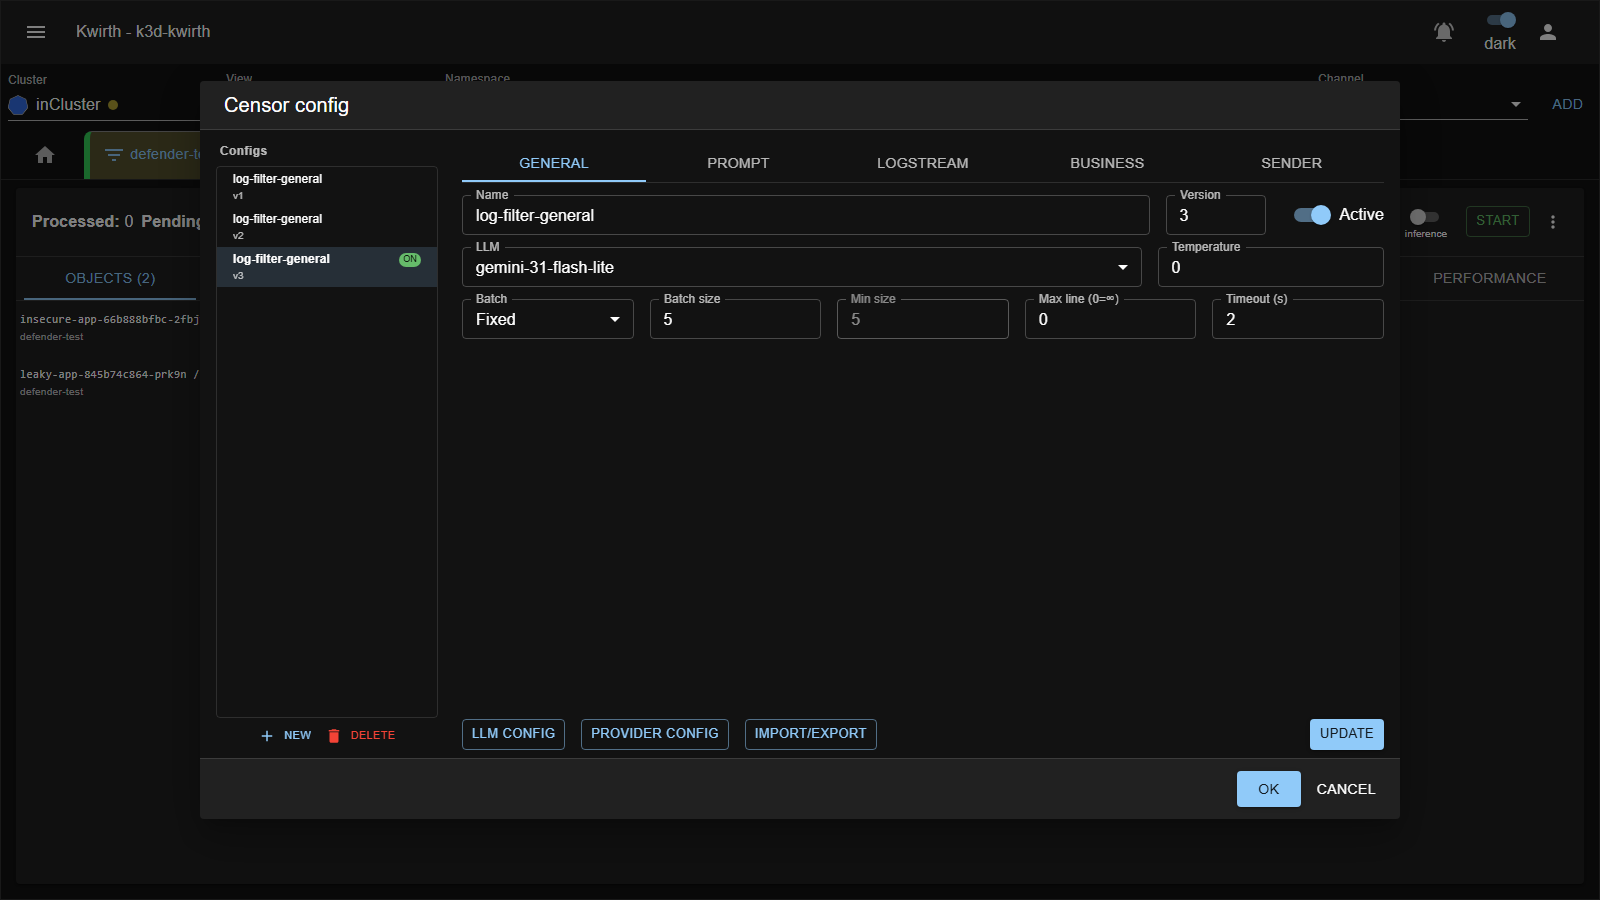
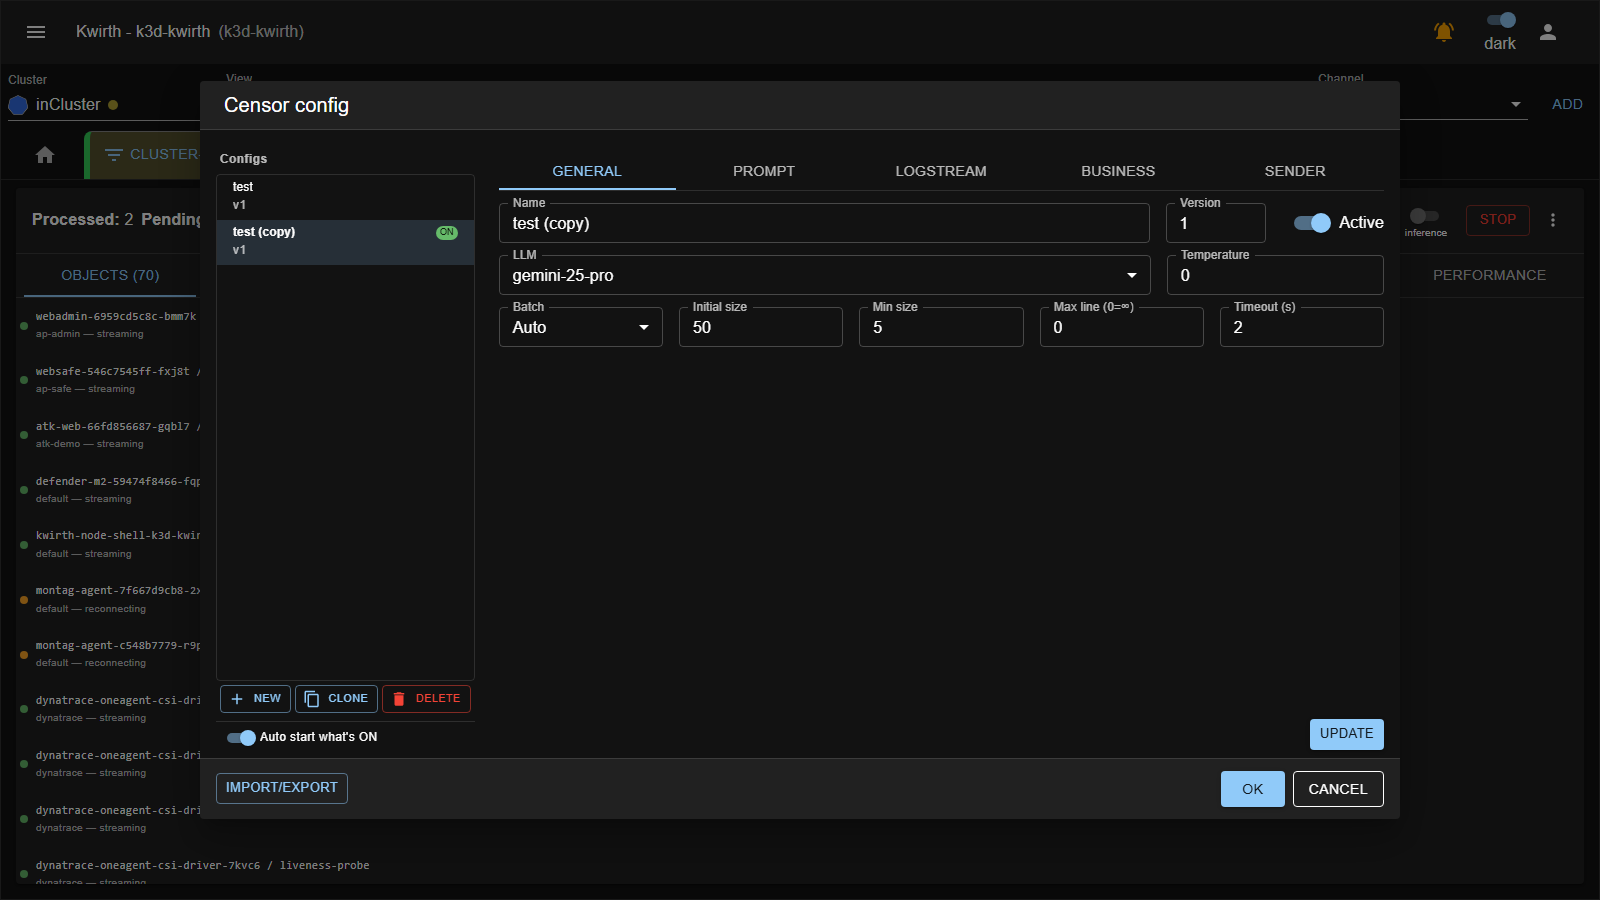
chore(censor): CL9 — e2e propio, metricas, backlog y bump a 0.2.48
Cierre del bloque de censor (ciclo de vida de assets/streams + autostart del analisis, ya
commiteados). Lo que faltaba de la checklist:

- e2e CREADO desde cero (censor no tenia): harness aislado con Playwright pinneado a 1.61.1 (la
  version cuyo navegador ya esta instalado), creds en e2e/.creds.json (gitignoreado), 2 specs / 5
  casos verdes contra el dev + un zz-capture capture-only
- data-testid estables en el front (censor-panel, censor-menu, censor-menu-config,
  censor-analyze-toggle), como ya tenia montag
- el e2e del autostart comprueba el CONTRATO DE UI y cierra con Cancel: no persiste ni arranca
  analisis, para no gastar LLM real ni tocar la config del usuario. El comportamiento lo cubre el
  harness (24 tests)
- captura de la guia refrescada (channel-censor-config.png): mi switch la invalidaba, y de paso la
  anterior ya estaba desfasada porque aun mostraba los botones LLM CONFIG / PROVIDER CONFIG que se
  movieron al submenu AI
- docs/plan/test-metrics-history.md creado con la primera fila (24 harness, 58.31/68.28/69.18, 2/5 e2e)
- docs/plan/BACKLOG.md creado: estado de las dos features y lo que queda (documentacion propia del
  plugin, cobertura del front, e2e de comportamiento del autostart)
- COVERAGE=1 wired en el runner de tests
- bump 0.2.47 -> 0.2.48 + manifest. Ojo: 0.2.47 se taggeo sobre un commit anterior y nunca llego a
  npm (el registry servia 0.2.46 y el manifest apuntaba ahi), asi que 0.2.48 es la primera version
  publicada con las dos features.

diff --git a/plugins/censor/e2e/tests/helpers.ts b/plugins/censor/e2e/tests/helpers.ts
@@ -1,0 +1,76 @@
+import { Page, Locator, expect } from '@playwright/test'
+
+export const USER = process.env.CENSOR_E2E_USER ?? 'admin'
+export const PASS = process.env.CENSOR_E2E_PASS ?? ''
+export const CLUSTER = process.env.CENSOR_E2E_CLUSTER ?? 'inCluster'
+
+/** Login with the given credentials. Waits until the SPA actually renders — either the login form or,
+ *  if the session persisted, the resource selector — then logs in only if the form is present. */
+export async function login(page: Page, user = USER, pass = PASS): Promise<void> {
+    await page.goto('/')
+    const userField = page.getByLabel('User')
+    const combo = page.getByRole('combobox').first()
+    await Promise.race([
+        userField.waitFor({ state: 'visible', timeout: 30000 }).catch(() => { }),
+        combo.waitFor({ state: 'visible', timeout: 30000 }).catch(() => { })
+    ])
+    if (await userField.isVisible().catch(() => false)) {
+        await userField.fill(user)
+        await page.getByLabel('Password').fill(pass)
+        await page.getByRole('button', { name: 'OK' }).click()
+        await page.waitForTimeout(2500)
+    }
+}
+
+/**
+ * Drives the resource selector up to the channel combobox: Cluster → View=cluster.
+ * Leaves the channel combobox OPEN so the caller can assert/select the 'censor' option.
+ */
+export async function openChannelPicker(page: Page): Promise<Locator> {
+    await page.getByRole('combobox').first().click()
+    await page.getByRole('option', { name: CLUSTER }).click()
+    await page.waitForTimeout(800)
+    await page.getByRole('combobox').nth(1).click()
+    await page.getByRole('option', { name: 'cluster', exact: true }).click()
+    await page.waitForTimeout(800)
+    const combos = page.getByRole('combobox')
+    await combos.nth(await combos.count() - 1).click()
+    return page.getByRole('option', { name: 'censor', exact: true })
+}
+
+/** Starts the currently selected channel tab via its menu (gear icon → Start). */
+export async function startChannel(page: Page): Promise<void> {
+    await page.locator('[data-testid="SettingsIcon"]').first().click({ force: true })
+    await page.getByText('Start', { exact: true }).click()
+    await page.waitForTimeout(1500)
+}
+
+/**
+ * Full open + start: login → Cluster → View=cluster → Channel=censor → ADD → Start.
+ * Starting the channel opens the Censor setup dialog (line limits); confirming it with its own
+ * "Start" button mounts the panel. Leaves the Censor panel running WITHOUT analyzing: opening the
+ * channel only inventories objects, so no log stream and no LLM call happens here.
+ */
+export async function openCensor(page: Page, user = USER, pass = PASS): Promise<void> {
+    await login(page, user, pass)
+    const censorOption = await openChannelPicker(page)
+    await censorOption.click()
+    await page.getByRole('button', { name: 'ADD' }).click()
+    await page.waitForTimeout(1500)
+    // The setup dialog may open on ADD or need the channel menu → Start to appear.
+    const setupDialog = page.getByRole('dialog', { name: 'Censor' })
+    if (!(await setupDialog.isVisible().catch(() => false))) {
+        await startChannel(page)
+    }
+    await setupDialog.getByRole('button', { name: 'Start', exact: true }).click()
+    await expect(page.getByTestId('censor-panel')).toBeVisible({ timeout: 20_000 })
+}
+
+/** Opens ⋮ → Config and returns the config dialog locator. */
+export async function openConfigDialog(page: Page): Promise<Locator> {
+    await page.getByTestId('censor-menu').click()
+    await page.getByTestId('censor-menu-config').click()
+    const dialog = page.getByRole('dialog').filter({ hasText: 'Censor config' })
+    await expect(dialog).toBeVisible({ timeout: 15_000 })
+    return dialog
+}

diff --git a/plugins/censor/src/front/CensorTabContent.tsx b/plugins/censor/src/front/CensorTabContent.tsx
@@ -224,7 +224,7 @@ const CensorTabContent: React.FC<IContentProps> = (props: IContentProps) => {
     const panelHeight = `calc(100vh - ${contentTop}px - 16px)`
     return <>
         {data.started &&
-        <Card sx={{ display: 'flex', flexDirection: 'column', flex: 1, width: '98%', alignSelf: 'center', mt: 1, minHeight: 0 }}>
+        <Card data-testid='censor-panel' sx={{ display: 'flex', flexDirection: 'column', flex: 1, width: '98%', alignSelf: 'center', mt: 1, minHeight: 0 }}>
             <CardHeader title={
                 <Stack direction='row' alignItems='center' spacing={1}>
                     <Typography><b>Processed:</b> {rd?.processedCount ?? 0}</Typography>
@@ -265,15 +265,15 @@ const CensorTabContent: React.FC<IContentProps> = (props: IContentProps) => {
                         if (!isAnalyzing) { data.startTime = Date.now(); data.stopTime = undefined }
                         else data.stopTime = Date.now()
                         sendCommand(isAnalyzing ? ECensorCommand.ANALYZESTOP : ECensorCommand.ANALYZESTART)
-                    }} color={(rd?.analyzing ?? false) ? 'error' : 'success'} variant='outlined' size='small'
+                    }} color={(rd?.analyzing ?? false) ? 'error' : 'success'} variant='outlined' size='small' data-testid='censor-analyze-toggle'
                         disabled={!data.ephemeralSessionName || (!(rd?.analyzing ?? false) && !data.configs.filter(c => c.active).some(c => c.logstreamEnabled || (c.businessSources?.length ?? 0) > 0))}>
                         {(rd?.analyzing ?? false) ? 'Stop' : 'Start'}
                     </Button>
-                    <IconButton size='small' onClick={(e) => { setAiGroupOpen(false); setMenuAnchor(e.currentTarget) }}>
+                    <IconButton size='small' data-testid='censor-menu' onClick={(e) => { setAiGroupOpen(false); setMenuAnchor(e.currentTarget) }}>
                         <MoreVertIcon fontSize='small' />
                     </IconButton>
                     <Menu anchorEl={menuAnchor} open={Boolean(menuAnchor)} onClose={() => setMenuAnchor(null)}>
-                        <MenuItem onClick={() => { setMenuAnchor(null); openConfig() }} disabled={!data.ephemeralSessionName}><ListItemIcon><Settings fontSize='small' /></ListItemIcon>Config</MenuItem>
+                        <MenuItem data-testid='censor-menu-config' onClick={() => { setMenuAnchor(null); openConfig() }} disabled={!data.ephemeralSessionName}><ListItemIcon><Settings fontSize='small' /></ListItemIcon>Config</MenuItem>
                         <Divider />
                         <MenuGroup label='AI' icon={<SmartToy fontSize='small' />} open={aiGroupOpen} onToggle={() => setAiGroupOpen(o => !o)}>
                             <MenuItem onClick={() => { setMenuAnchor(null); setShowConfigProvider(true) }}><ListItemIcon><Key fontSize='small' /></ListItemIcon>AI providers</MenuItem>

diff --git a/plugins/censor/e2e/tests/02-autostart.spec.ts b/plugins/censor/e2e/tests/02-autostart.spec.ts
@@ -1,0 +1,48 @@
+import { test, expect } from '@playwright/test'
+import { openCensor, openConfigDialog } from './helpers'
+
+// Autostart del ANALISIS: un unico switch para todo el canal, bajo la lista de configs.
+//
+// NO DESTRUCTIVO y sin gasto de LLM: el spec comprueba el contrato de UI (que el switch existe, que
+// es unico, que esta fuera del editor de la config seleccionada y que se puede conmutar) y SIEMPRE
+// cierra con Cancel, asi que no persiste nada ni arranca un analisis contra el LLM real del usuario.
+// El comportamiento (que el flag arranca el analisis al arrancar el channel) esta cubierto de forma
+// determinista por el harness: tests/back/CensorAutostart.test.ts.
+test.describe('Censor — autostart del analisis', () => {
+
+    test('el switch de autostart existe, es unico y vive fuera del editor de config', async ({ page }) => {
+        await openCensor(page)
+        const dialog = await openConfigDialog(page)
+
+        const autoStart = dialog.getByText("Auto start what's ON")
+        await expect(autoStart).toHaveCount(1)
+        await expect(autoStart).toBeVisible()
+
+        // Esta en el panel de la lista (aplica a todas las configs), no en la pestana General del editor
+        await expect(dialog.getByRole('tab', { name: 'General' })).toBeVisible()
+        await dialog.getByRole('tab', { name: 'General' }).click()
+        await expect(dialog.getByText('Active')).toBeVisible()
+        await expect(autoStart).toBeVisible()
+
+        await dialog.getByRole('button', { name: 'Cancel' }).click()
+        await expect(dialog).toBeHidden()
+    })
+
+    test('el switch se conmuta y Cancel no persiste nada', async ({ page }) => {
+        await openCensor(page)
+        const dialog = await openConfigDialog(page)
+
+        const toggle = dialog.locator('input[type="checkbox"]').last()
+        const before = await toggle.isChecked()
+        await toggle.click({ force: true })
+        expect(await toggle.isChecked()).toBe(!before)
+
+        await dialog.getByRole('button', { name: 'Cancel' }).click()
+        await expect(dialog).toBeHidden()
+
+        // Reabrir: al no haber pulsado OK, el valor sigue siendo el original
+        const reopened = await openConfigDialog(page)
+        expect(await reopened.locator('input[type="checkbox"]').last().isChecked()).toBe(before)
+        await reopened.getByRole('button', { name: 'Cancel' }).click()
+    })
+})

diff --git a/plugins/censor/e2e/playwright.config.ts b/plugins/censor/e2e/playwright.config.ts
@@ -1,0 +1,35 @@
+import { defineConfig } from '@playwright/test'
+import { readFileSync } from 'fs'
+import { join } from 'path'
+
+// Loads URL/credentials from a LOCAL file (.creds.json, gitignored) so they are neither passed on the
+// command line (keeps the command stable/allowlistable) nor committed. Falls back to env/defaults.
+try {
+    const c = JSON.parse(readFileSync(join(__dirname, '.creds.json'), 'utf-8'))
+    // Only assign DEFINED values: `process.env.X = undefined` coerces to the string "undefined",
+    // which would defeat the `?? 'inCluster'` fallback in helpers when a key is missing from creds.
+    const put = (k: string, v: unknown): void => { if (v !== undefined && v !== null && process.env[k] === undefined) process.env[k] = String(v) }
+    put('CENSOR_E2E_URL', c.url)
+    put('CENSOR_E2E_USER', c.user)
+    put('CENSOR_E2E_PASS', c.pass)
+    put('CENSOR_E2E_CLUSTER', c.cluster)
+}
+catch { /* no file → env/defaults */ }
+
+// ISOLATED e2e for the Censor plugin. Drives the already-running app over HTTP; never imported by the build.
+export default defineConfig({
+    testDir: './tests',
+    timeout: 90_000,
+    fullyParallel: false,
+    workers: 1,
+    retries: 1,   // dev en vivo: el login puede fallar de forma transitoria ("cannot access backend")
+    reporter: [['list']],
+    use: {
+        baseURL: process.env.CENSOR_E2E_URL ?? 'http://localhost:3000',
+        headless: true,
+        screenshot: 'on',
+        trace: 'retain-on-failure',
+        ignoreHTTPSErrors: true,
+        actionTimeout: 15_000
+    }
+})

diff --git a/plugins/censor/e2e/tests/zz-capture.spec.ts b/plugins/censor/e2e/tests/zz-capture.spec.ts
@@ -1,0 +1,26 @@
+import { test } from '@playwright/test'
+import { openCensor, openConfigDialog } from './helpers'
+
+// Guide screenshots (dark theme). NOT part of the regression suite — run explicitly:
+//   CENSOR_CAPTURE=1 npx playwright test tests/zz-capture.spec.ts
+// Censor's guide lives in the CORE docs tree, so the PNGs go to docs/0.5.287/_media/guide.
+// Only the shots this plugin's UI changes invalidate; data-heavy tabs (Regex/Logstream/Performance
+// with real numbers) need a live run with an LLM and noisy logs.
+const MEDIA = '../../../docs/0.5.287/_media/guide'
+
+test.skip(!process.env.CENSOR_CAPTURE, 'capture-only (set CENSOR_CAPTURE=1)')
+
+// El trace/video de Playwright con la SPA y su WebSocket abierto cuelga el teardown; se desactivan
+test.use({ trace: 'off', screenshot: 'off', video: 'off' })
+
+test('capture: config dialog (with the autostart switch)', async ({ page }) => {
+    // Tema oscuro y encuadre a pantalla completa, como el resto de capturas de la guía
+    await page.addInitScript(() => localStorage.setItem('kwirth.mode', 'dark'))
+    await page.setViewportSize({ width: 1600, height: 900 })
+    await openCensor(page)
+    const dialog = await openConfigDialog(page)
+    await page.waitForTimeout(800)   // margen para la animación del diálogo
+    await page.screenshot({ path: `${MEDIA}/channel-censor-config.png` })
+    await dialog.getByRole('button', { name: 'Cancel' }).click()
+    await page.goto('about:blank')   // cierra el WebSocket antes del teardown
+})

diff --git a/plugins/censor/e2e/tests/01-channel.spec.ts b/plugins/censor/e2e/tests/01-channel.spec.ts
@@ -1,0 +1,29 @@
+import { test, expect } from '@playwright/test'
+import { login, openChannelPicker, openCensor } from './helpers'
+
+// Baseline: censor is a cluster channel. On the k8s-mode home it must be offered in the selector
+// and, once added + started, render its panel with the Objects/Regex/... tabs. These are the
+// invariants later work must not break.
+test.describe('Censor — channel baseline', () => {
+
+    test('censor is offered as a cluster channel', async ({ page }) => {
+        await login(page)
+        const censorOption = await openChannelPicker(page)
+        await expect(censorOption).toBeVisible()
+    })
+
+    test('starting the channel shows the panel and its tabs', async ({ page }) => {
+        await openCensor(page)
+        await expect(page.getByTestId('censor-panel')).toBeVisible()
+        await expect(page.getByTestId('censor-menu')).toBeVisible()
+        await expect(page.getByRole('tab', { name: /Objects/ })).toBeVisible()
+        await expect(page.getByRole('tab', { name: /Regex/ })).toBeVisible()
+    })
+
+    test('starting the channel does NOT start the analysis by itself', async ({ page }) => {
+        await openCensor(page)
+        // Los dos arranques son distintos: el del channel (este) deja el analisis parado, asi que el
+        // boton propio de censor sigue ofreciendo Start (y no Stop)
+        await expect(page.getByTestId('censor-analyze-toggle')).toHaveText('Start')
+    })
+})

diff --git a/plugins/censor/docs/plan/BACKLOG.md b/plugins/censor/docs/plan/BACKLOG.md
@@ -1,0 +1,32 @@
+# Backlog — censor
+
+Pendientes vivos del plugin. La **guía de usuario** de censor no vive aquí: está en la documentación del
+core, en `docs/0.5.287/guide/extensions/plugins/censor.md` (censor es público y se publica con el core).
+
+## Ciclo de vida de assets y streams — ✅ HECHO (0.2.48)
+- Inventario (containers que casan con las configs activas) **separado** del stream de logs: el stream solo
+  se abre mientras algún runner que cubre el asset está analizando.
+- Un cierre prematuro del stream (el cliente de k8s corta `follow` a menudo) **reconecta con backoff**
+  (1s…30s, 20 intentos) en vez de borrar el asset; se aborta la petición al api server al parar.
+- Se pide solo lo nuevo (`sinceSeconds`), nunca `tailLines`: el tail metía una línea histórica de **cada**
+  container en el primer lote del LLM. Una reconexión recupera la ventana perdida, acotada a 300 s.
+- Estado por asset (`idle`/`streaming`/`reconnecting`/`failed`) visible en la pestaña **Objects**.
+
+## Autostart del análisis — ✅ HECHO (0.2.48)
+- Un **único** switch para todo el canal (**Auto start what's ON**, bajo la lista de configs), guardado en
+  su propia clave `censor-autostart`: al arrancar el channel se arranca el análisis de **todas** las configs
+  ON, igual que pulsar Start. No viaja en el export/import (es preferencia de la instalación).
+- No dispara si ninguna config ON tiene fuente configurada, la misma guarda que deshabilita el botón Start.
+
+## Documentación propia del plugin
+- Censor **no** tiene bundle de documentación propio (`docs/guide` + `censor.tgz`) como excubitor, montag,
+  iter o pinocchio: su guía está en el árbol de docs del core. Si se quisiera publicar aparte (y entrar en
+  la sección `docs` de `kwirth-dev.json` y del manifest), hay que decidir antes si la guía **se mueve** del
+  core o **se duplica** — duplicar significa mantener dos copias.
+
+## Testing
+- **Cobertura del front**: los `.tsx` no están medidos numéricamente; el e2e cubre el panel y el diálogo de
+  config, no las pestañas con datos (Regex/Logstream/Performance necesitan un run vivo con LLM y ruido).
+- **e2e del autostart de comportamiento**: hoy el e2e comprueba el contrato de UI y cancela, para no gastar
+  LLM real. Si algún día hay un LLM de mentira en el dev, se puede cerrar el ciclo completo (flag ON →
+  rearrancar el channel → asertar que el botón pasa a **Stop**).

diff --git a/plugins/censor/docs/plan/test-metrics-history.md b/plugins/censor/docs/plan/test-metrics-history.md
@@ -1,0 +1,16 @@
+# Censor — histórico de métricas de test
+
+> Registro **incremental** de la suite de tests, una fila por **CL9 / tag**. Se **añade** una fila arriba en
+> cada cierre (punto 2 de la checklist CL9); **no se sobrescribe** — es un histórico.
+>
+> **Cómo se obtiene cada dato:**
+> - **Harness** = nº de tests que reporta `npm test` (`node --test`).
+> - **Cobertura** = `COVERAGE=1 npm test` (Node `--experimental-test-coverage` con sourcemaps a `src/`). ⚠ Es
+>   sobre los módulos que el harness **carga** (back del canal + common), **no** el 100% del código: los
+>   componentes React (`.tsx`) los cubre el e2e (no medido numéricamente).
+> - **e2e** = nº de spec files (`e2e/tests/*.spec.ts`) y nº de casos `test()`. El spec `zz-capture` es
+>   capture-only (skipped salvo `CENSOR_CAPTURE=1`) y no cuenta como caso de regresión.
+
+| Fecha | Versión / tag | Harness | Cobertura (líneas / ramas / funcs) | e2e (specs / casos) | Notas |
+|---|---|---|---|---|---|
+| 2026-09-10 | `plugin/censor@0.2.48` | **24** | **58.31% / 68.28% / 69.18%** | 2 / 5 | **Primer CL9 de censor con harness y e2e propios.** Dos features: (1) **inventario de assets separado del stream de logs** — los streams se abren al analizar y se abortan al parar, un cierre prematuro reconecta con backoff en vez de borrar el objeto, `sinceSeconds` en lugar de `tailLines` (el tail metía una línea histórica de cada container en el primer lote del LLM), emisión agrupada del inventario y estado por asset (`idle`/`streaming`/`reconnecting`/`failed`) visible en Objects; (2) **autostart del análisis** — un único switch para todo el canal (`censor-autostart`) que arranca las configs ON al arrancar el channel. **e2e creado desde cero** (no existía): harness aislado con Playwright 1.61.1 (pinneado a la versión cuyo navegador ya está instalado), `.creds.json` gitignoreado, `data-testid` estables en el front (`censor-panel`, `censor-menu`, `censor-menu-config`, `censor-analyze-toggle`) y un `zz-capture` que refresca la captura del diálogo de config de la guía del core. El e2e del autostart comprueba el **contrato de UI** y cierra con Cancel: no persiste ni arranca análisis, para no gastar LLM real ni tocar la config del usuario; el comportamiento va cubierto por el harness. `COVERAGE=1` wired en el runner. |
